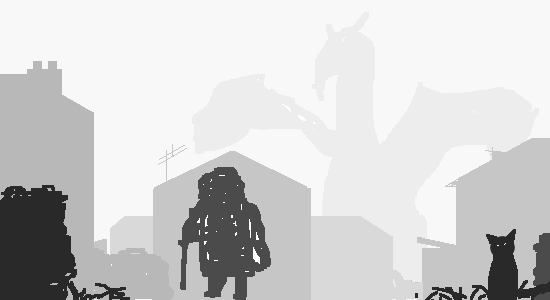
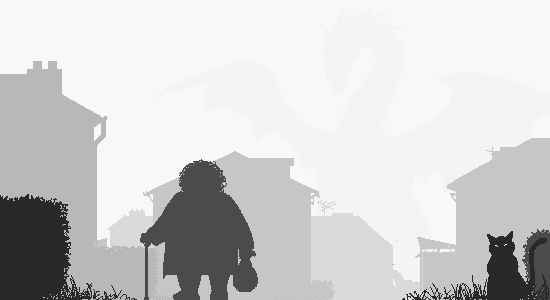
travail image intro + cats collide mami

diff --git a/js/main.js b/js/main.js
@@ -459,6 +459,7 @@ function draw() {
         cats.collide(houses);
         mami.collide(obstacles);
         cats.collide(obstacles);
+        cats.collide(mami);
 
         //frapper avec la canne:
         let stickAngle = mami.stick.rotation * Math.PI / 180;
